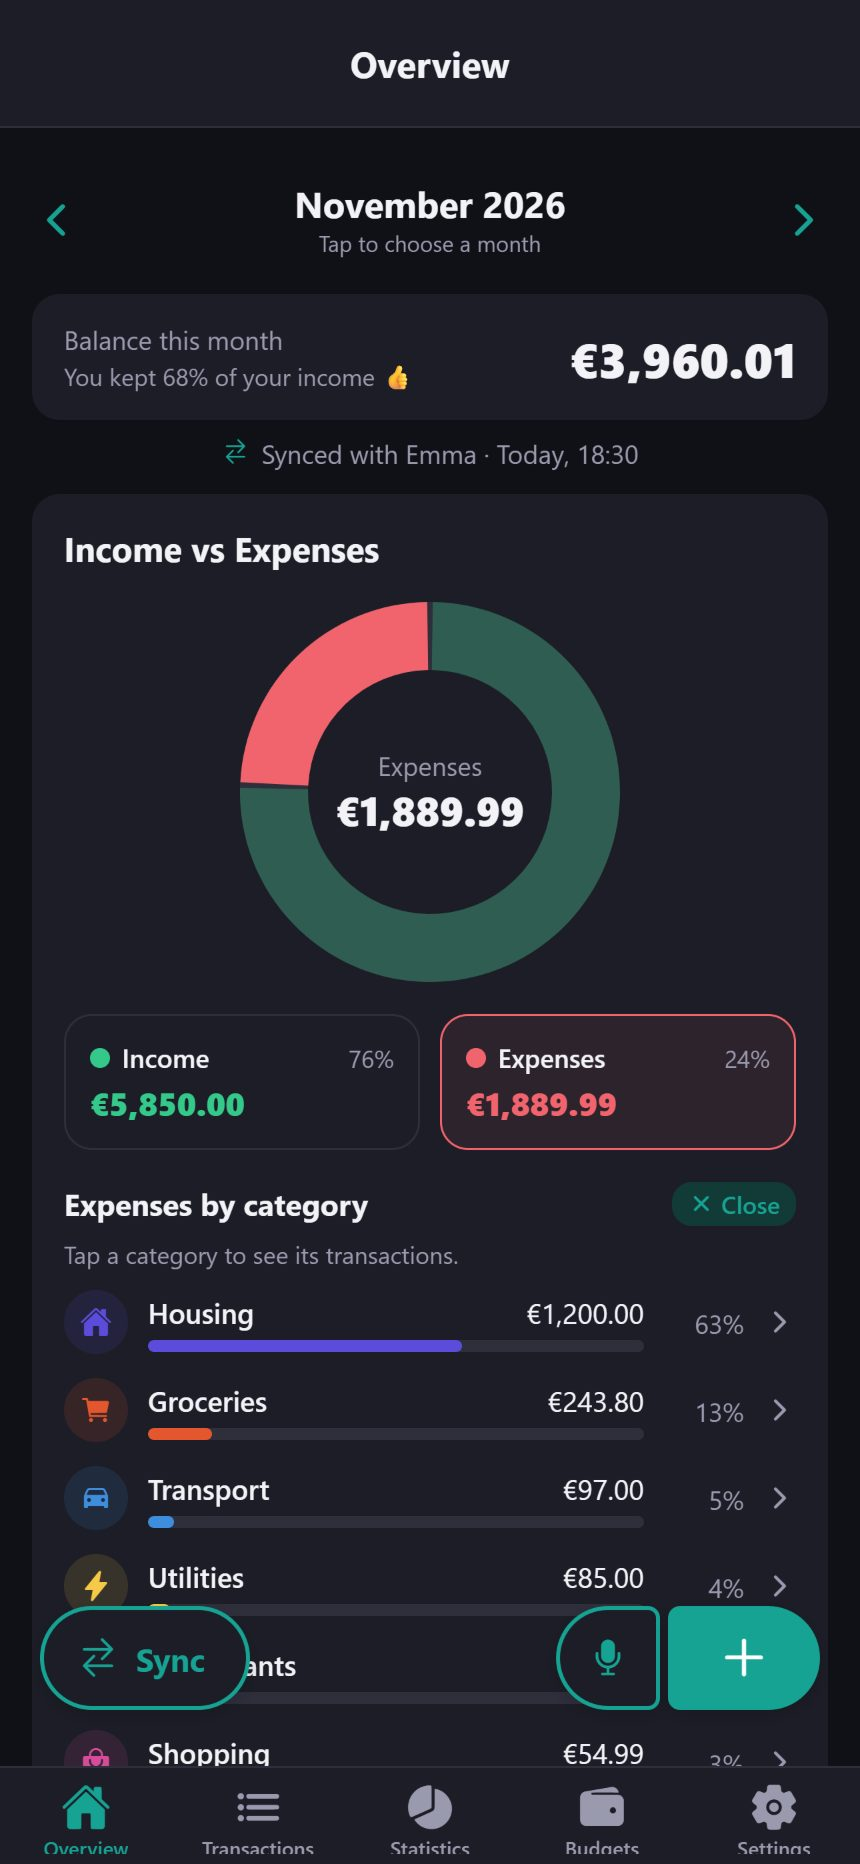
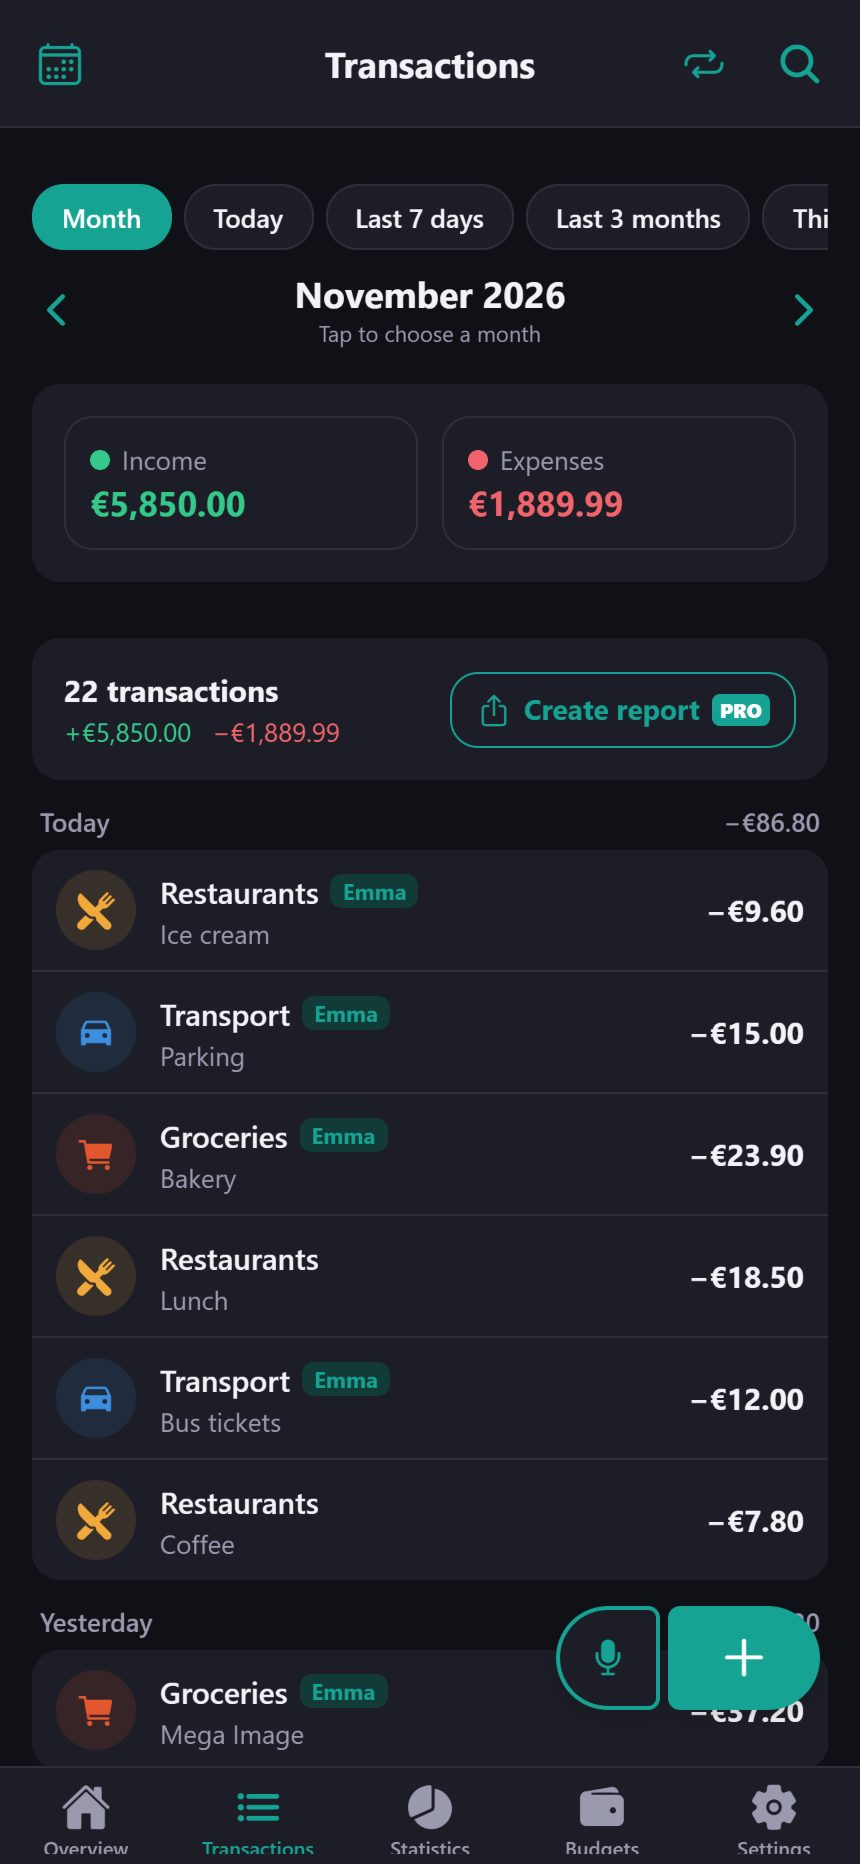
Screenshot 6: Transactions in dark mode (all four languages)

diff --git a/ro/index.html b/ro/index.html
@@ -140,7 +140,7 @@
               <figcaption>În limita bugetului</figcaption>
             </figure>
             <figure class="shot-item">
-              <div class="shot"><img src="/assets/screenshots/6-private.jpg" alt="Pe scurt în modul întunecat" loading="lazy" width="430" height="932"></div>
+              <div class="shot"><img src="/assets/screenshots/6-private.jpg" alt="Tranzacții în modul întunecat" loading="lazy" width="430" height="932"></div>
               <figcaption>Confidențial, și în modul întunecat</figcaption>
             </figure>
           </div>

diff --git a/es/index.html b/es/index.html
@@ -141,7 +141,7 @@
               <figcaption>Dentro del presupuesto</figcaption>
             </figure>
             <figure class="shot-item">
-              <div class="shot"><img src="/assets/screenshots/6-private.jpg" alt="Inicio en modo oscuro" loading="lazy" width="430" height="932"></div>
+              <div class="shot"><img src="/assets/screenshots/6-private.jpg" alt="Movimientos en modo oscuro" loading="lazy" width="430" height="932"></div>
               <figcaption>Privada, también en modo oscuro</figcaption>
             </figure>
           </div>

diff --git a/de/index.html b/de/index.html
@@ -141,7 +141,7 @@
               <figcaption>Im Budget bleiben</figcaption>
             </figure>
             <figure class="shot-item">
-              <div class="shot"><img src="/assets/screenshots/6-private.jpg" alt="Übersicht im dunklen Modus" loading="lazy" width="430" height="932"></div>
+              <div class="shot"><img src="/assets/screenshots/6-private.jpg" alt="Buchungen im dunklen Modus" loading="lazy" width="430" height="932"></div>
               <figcaption>Privat, auch im dunklen Modus</figcaption>
             </figure>
           </div>

diff --git a/index.html b/index.html
@@ -143,7 +143,7 @@
               <figcaption>Stay on budget</figcaption>
             </figure>
             <figure class="shot-item">
-              <div class="shot"><img src="/assets/screenshots/6-private.jpg" alt="Overview in dark mode" loading="lazy" width="430" height="932"></div>
+              <div class="shot"><img src="/assets/screenshots/6-private.jpg" alt="Transactions in dark mode" loading="lazy" width="430" height="932"></div>
               <figcaption>Private, also in dark mode</figcaption>
             </figure>
           </div>
